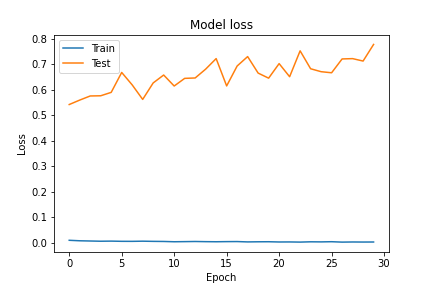
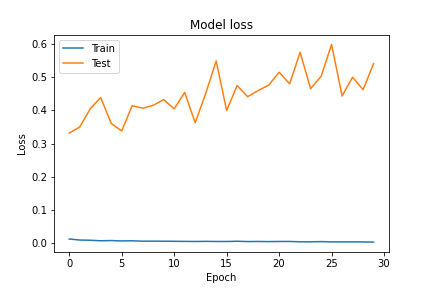
back to all data

diff --git a/data_prepocess.py b/data_prepocess.py
@@ -54,7 +54,7 @@ def wav2melspec(wave, sr, max_len=499):
 
 if __name__ == '__main__':
     #讀取CSV
-    with open('meta_train_new.csv') as csvfile:
+    with open('meta_train.csv') as csvfile:
         rows = csv.reader(csvfile)
         label = list(rows)
         
